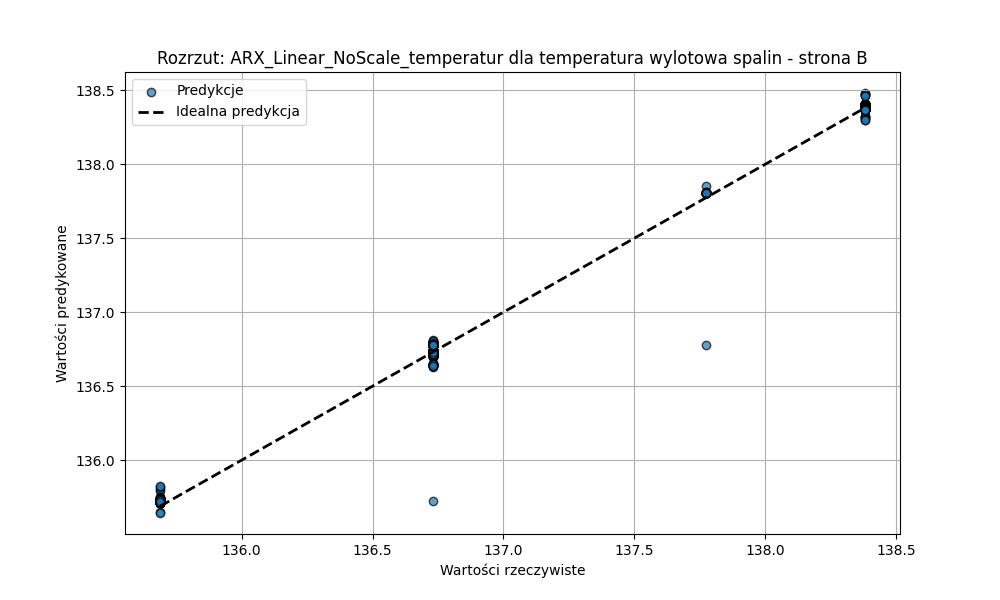
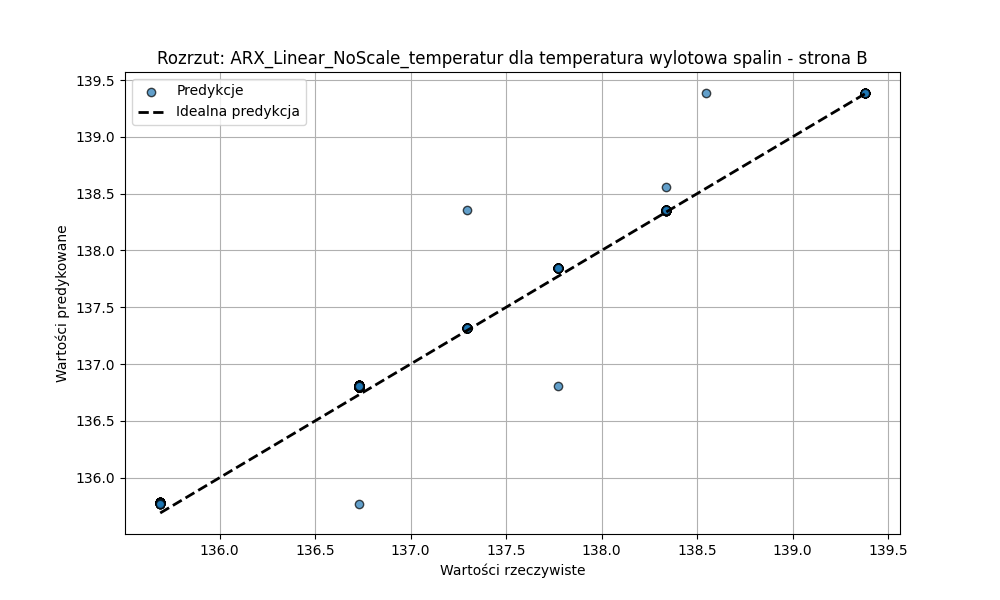
very good inputs

diff --git a/src/main.py b/src/main.py
@@ -195,8 +195,8 @@ def main():
         features_target_A = [
             "temperatura mieszanki za młynem A", "temperatura mieszanki za młynem F", 
             "temperatura mieszanki za młynem E",
-            "kąt wychylenia palnika róg #1", "kąt wychylenia palnika róg #2", "kąt wychylenia palnika róg #3", "kąt wychylenia palnika róg #4",
-            "klapy wentlatora podmuchu - strona A", "klapy wentlatora podmuchu - strona B",
+            # "kąt wychylenia palnika róg #1", "kąt wychylenia palnika róg #2", "kąt wychylenia palnika róg #4",
+            "klapy wentlatora podmuchu - strona A",
             "ciśnienie wody wtryskowej do pary świeżej",
             "temperatura wlotowa powietrza - strona A",
             "temperatura za wtryskiem pary wtórnej - strona L ", 
@@ -206,8 +206,8 @@ def main():
 
         features_target_B = [
             "temperatura mieszanki za młynem A", "temperatura mieszanki za młynem F", 
-            "temperatura mieszanki za młynem E",
-            "kąt wychylenia palnika róg #1", "kąt wychylenia palnika róg #2", "kąt wychylenia palnika róg #3", "kąt wychylenia palnika róg #4",
+            # "temperatura mieszanki za młynem E",
+            # "kąt wychylenia palnika róg #1", "kąt wychylenia palnika róg #2", "kąt wychylenia palnika róg #4",
             "klapy wentlatora podmuchu - strona A", "klapy wentlatora podmuchu - strona B",
             "ciśnienie wody wtryskowej do pary świeżej",
             "temperatura wlotowa powietrza - strona A",
@@ -221,8 +221,8 @@ def main():
             target_B: features_target_B
         }
 
-        TRAIN_DAYS = ['d3', 'd6']
-        TEST_DAYS = ['d2', 'd5']
+        TRAIN_DAYS =  ['d2', 'd5']
+        TEST_DAYS = ['d3', 'd6']
 
         # Pętla trenująca osobny model dla każdego celu
         for target_col, input_features in targets_and_features_arx.items():
